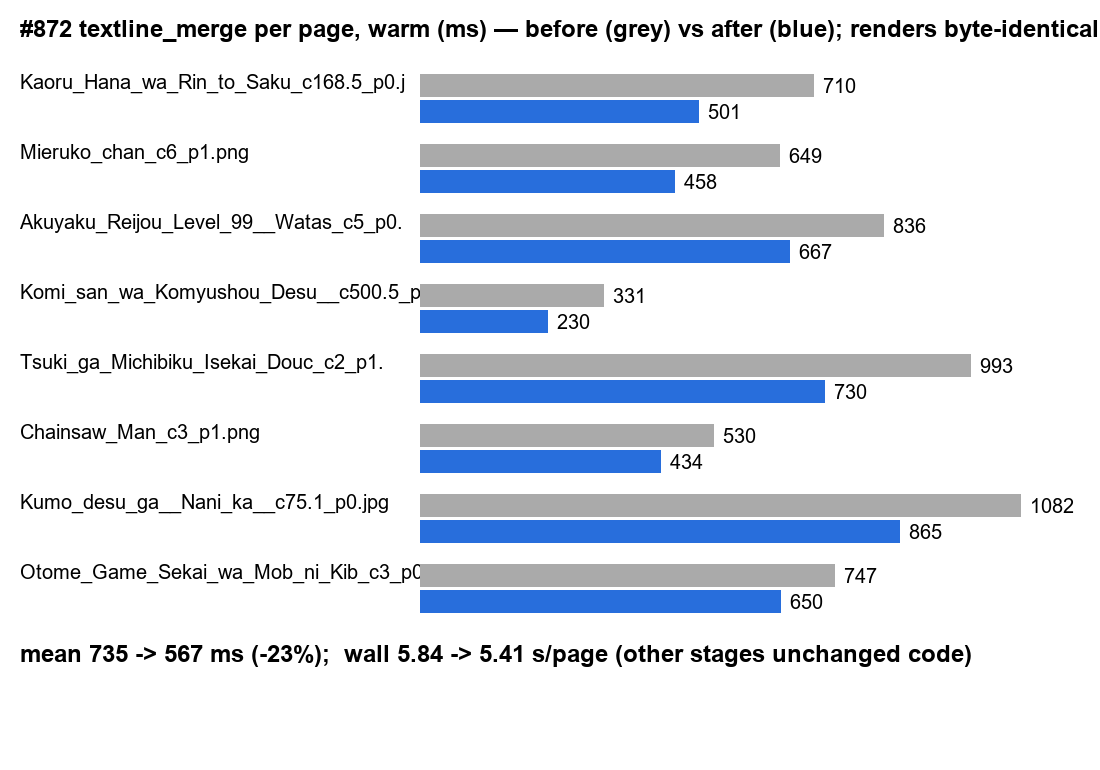
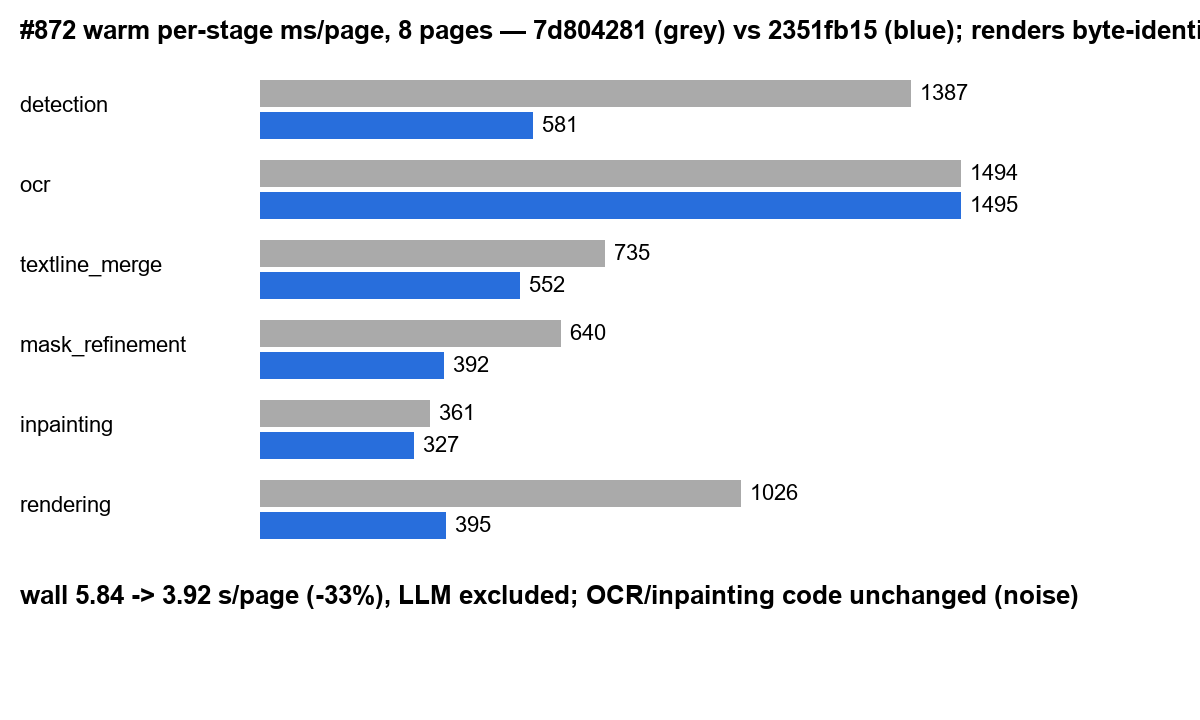
docs(bench): #872 PNG shows per-stage time for the whole round
Refs #872

T4-Gates: simplify=n-a code-review=n-a scrutinize=n-a security-review=n-a verify=n-a

Claude-Session: https://claude.ai/code/session_01LC1gnBLNxEQdqJdyyC5Tky

diff --git a/docs/reports/benchmarks/2026-10-21-872-textline-merge-perf.md b/docs/reports/benchmarks/2026-10-21-872-textline-merge-perf.md
@@ -3,7 +3,7 @@
 - **Date:** 2026-10-21 · **Issue:** #872 · **Before:** `7d804281` · **After:** `3d0e7f80` (`45c9c2c0`, `347ccd4b`, `7024f116`, `3d0e7f80`)
 - **Method:** warm in-process probe (models loaded, pass 0 discarded), prod knobs, LLM excluded (`original` translator), 8 corpus pages; renders compared byte for byte.
 
-![textline_merge per page, before vs after](./2026-10-21-872-textline-merge-perf.png)
+![per-stage warm time, round start vs end](./2026-10-21-872-textline-merge-perf.png)
 
 ## Where the time went (warm cProfile, 4 pages)
 
